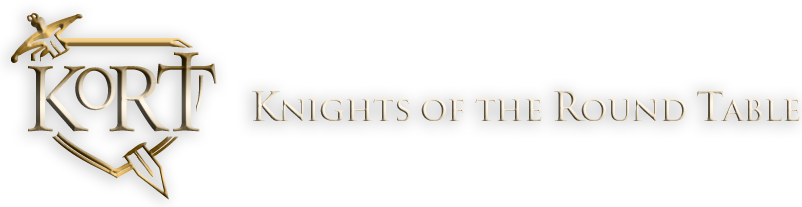
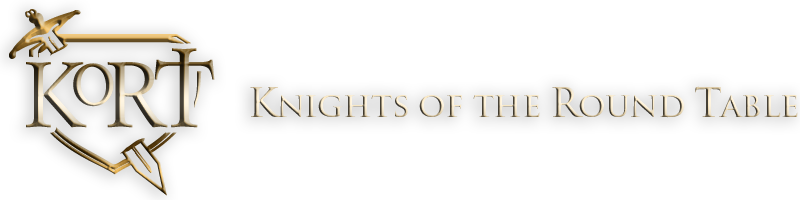
Make responsive header image.

diff --git a/sass/style.sass b/sass/style.sass
@@ -61,7 +61,7 @@ h4, p
 	
 header .logo
 	background: url(resources/header.png) center no-repeat
-	height: 207px
+	height: 200px
 	margin: 5em 0
 	
 .main .entry-title
@@ -109,3 +109,11 @@ footer
 	background-color: #000000
 	color: #eeeeee
 	text-align: center
+
+
+@media screen and (max-width: 800px)
+	
+	header .logo
+		background-size: 100%
+		height: 0
+		padding-top: 25%
